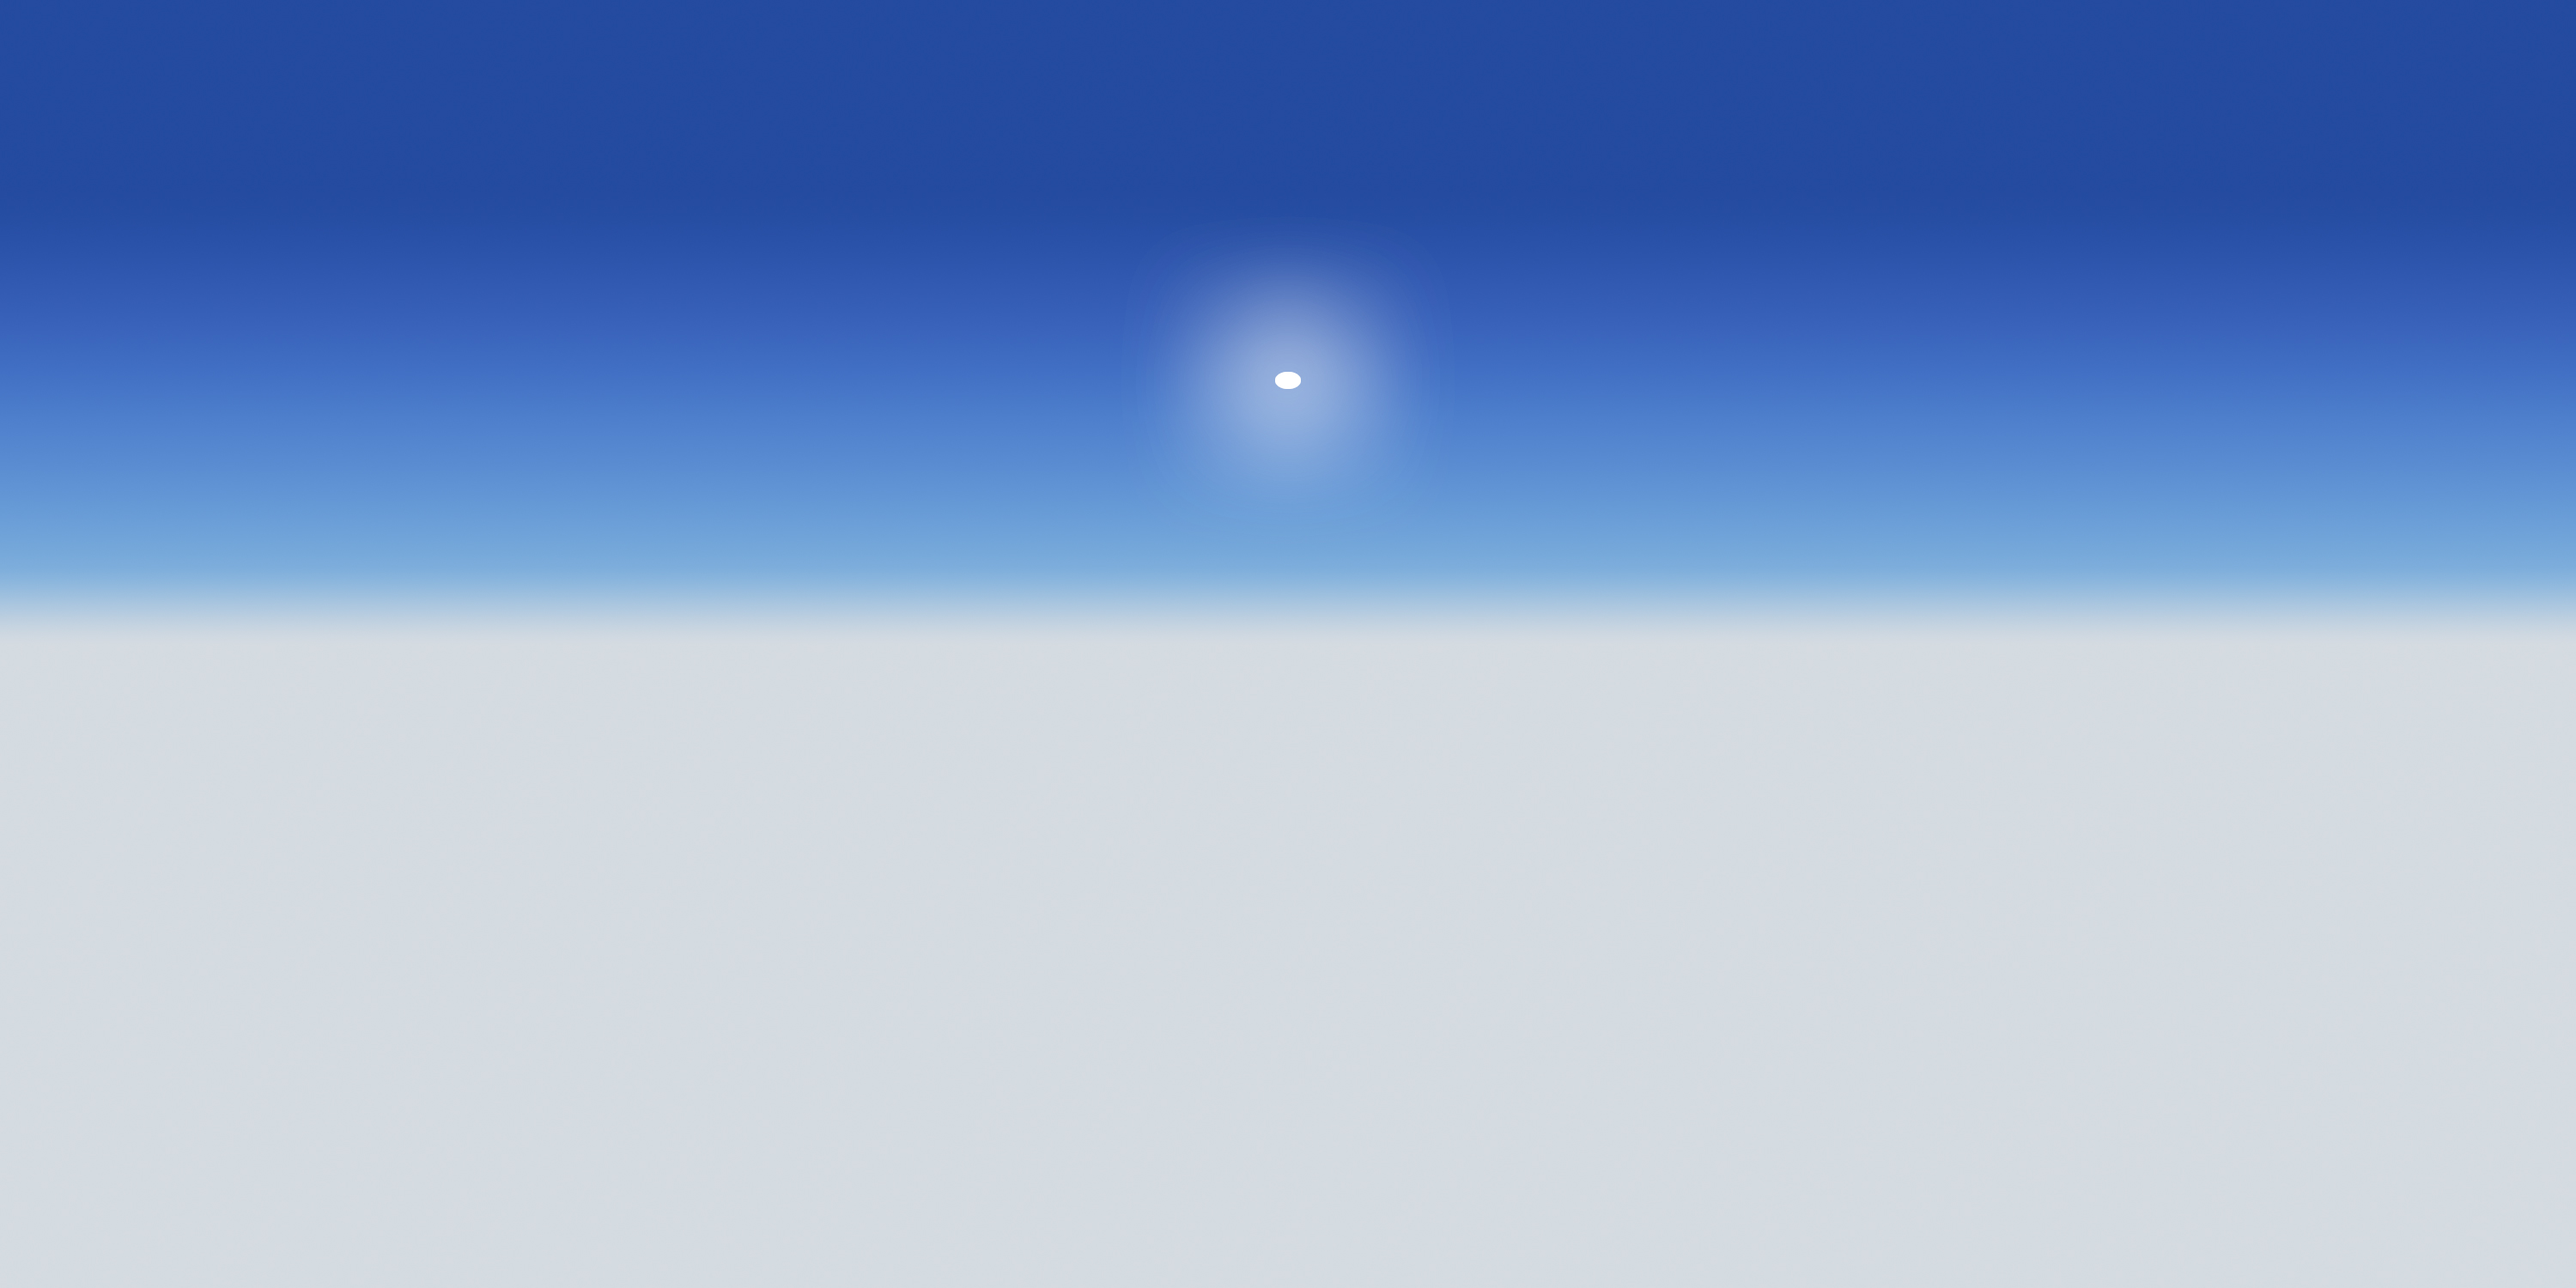
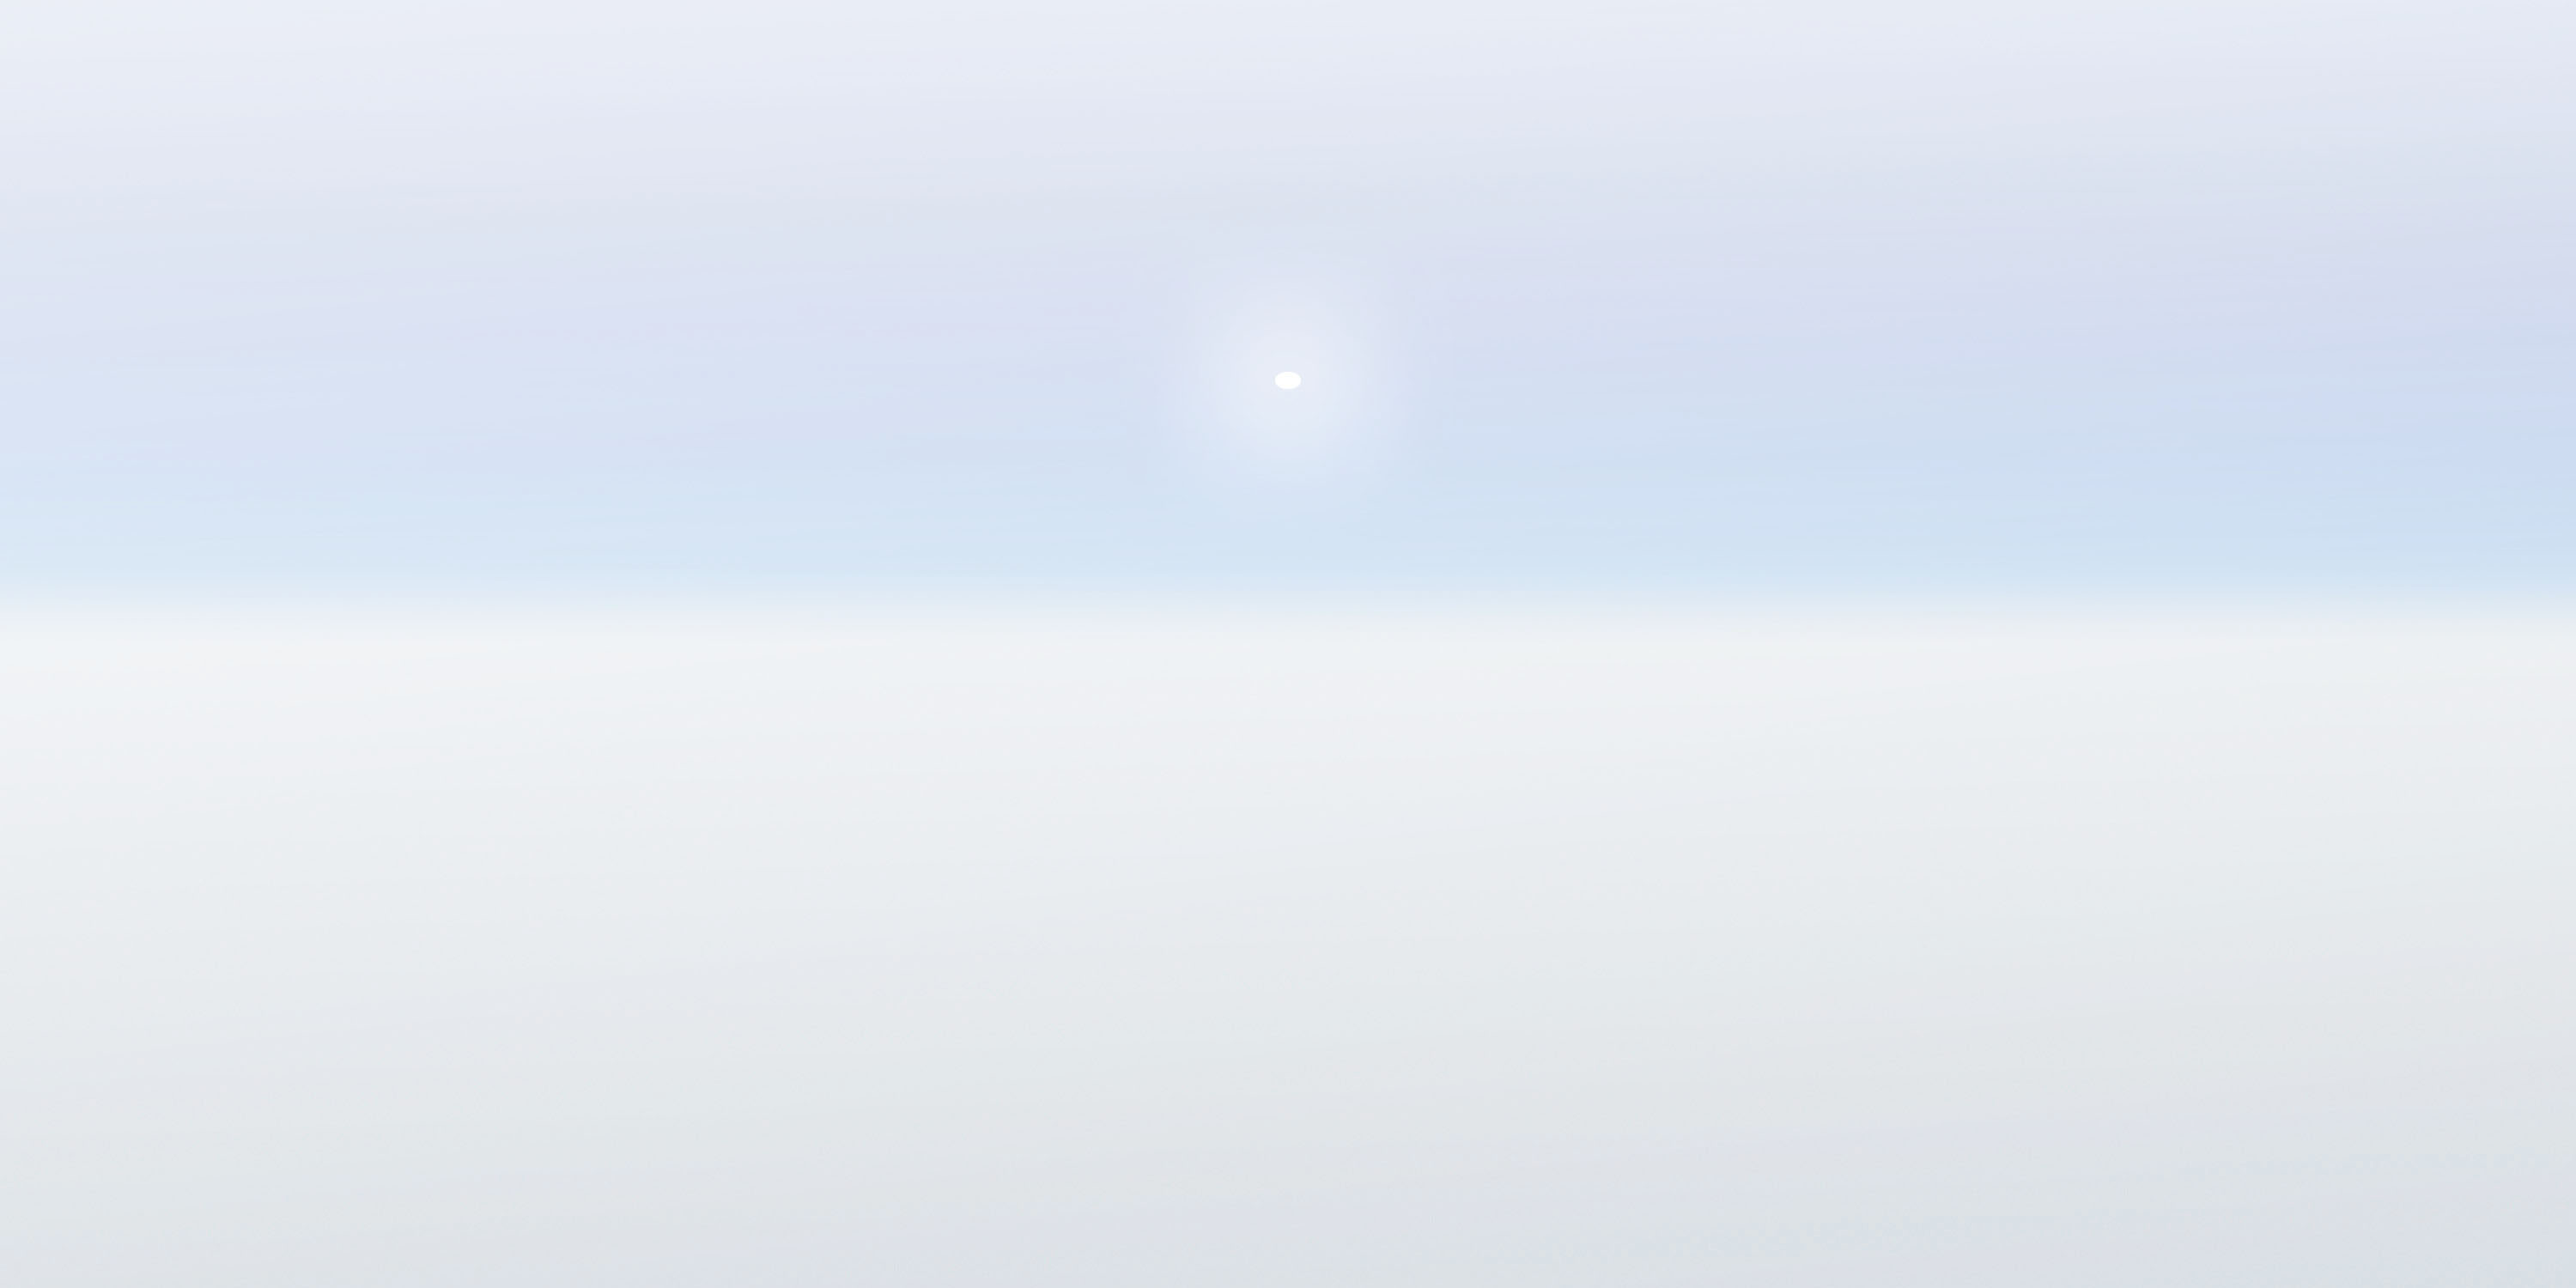
Last changes in cyzone AR app
Last changes in cyzone AR app

diff --git a/aframe/examples/dinero/index.html b/aframe/examples/dinero/index.html
@@ -33,9 +33,39 @@
 		
 	</style>
 	<script>
-	
-		// or simply
 		alert = function() {};
+		
+		function detectAndroidBrowserStock(){
+			var navU = navigator.userAgent;
+
+			// Android Mobile
+			var isAndroidMobile = navU.indexOf('Android') > -1 && navU.indexOf('Mozilla/5.0') > -1 && navU.indexOf('AppleWebKit') > -1;
+
+			// Apple webkit
+			var regExAppleWebKit = new RegExp(/AppleWebKit\/([\d.]+)/);
+			var resultAppleWebKitRegEx = regExAppleWebKit.exec(navU);
+			var appleWebKitVersion = (resultAppleWebKitRegEx === null ? null : parseFloat(regExAppleWebKit.exec(navU)[1]));
+
+			// Chrome
+			var regExChrome = new RegExp(/Chrome\/([\d.]+)/);
+			var resultChromeRegEx = regExChrome.exec(navU);
+			var chromeVersion = (resultChromeRegEx === null ? null : parseFloat(regExChrome.exec(navU)[1]));
+
+			// Native Android Browser
+			var isAndroidBrowser = isAndroidMobile && (appleWebKitVersion !== null && appleWebKitVersion < 537) || (chromeVersion !== null && chromeVersion < 37);
+			
+			return isAndroidBrowser;
+		}
+		
+		function getAndroidVersion(ua) {
+			ua = (ua || navigator.userAgent).toLowerCase(); 
+			var match = ua.match(/android\s([0-9\.]*)/);
+			return match ? match[1] : false;
+		};
+
+		if ((getAndroidVersion() != false) && (detectAndroidBrowserStock() == true) && (parseFloat(getAndroidVersion()) < 4.4)) {
+			window.location = "http://cyzoneapp.internovam.com/gif4";
+		}
 		
 		var check = {
 		  gyroscope: function (callback) {

diff --git a/aframe/examples/dinero/index-vr.html b/aframe/examples/dinero/index-vr.html
@@ -22,7 +22,7 @@
 			width: 100vw;
 			height: 100vh;
 			background-color: rgba(192, 192, 192, 0.5);
-			background-image: url("https://i.stack.imgur.com/MnyxU.gif");
+			background-image: url("./models/little-fox/loading.gif");
 			background-repeat: no-repeat;
 			background-position: center;
 		}
@@ -84,7 +84,7 @@ onReady(function () {
 
     <asset>
 	
-		<img id="sky" src="models/little-fox/clear-sunny-sky2.jpg">
+		<img id="sky" src="models/clear-sunny-sky.jpg">
 		
 		<a-asset-item id='tree-obj' src='models/little-fox/billete50/billete_12.obj'></a-asset-item>
         <a-asset-item id='tree-mtl' src='models/little-fox/billete50/billete_12.mtl'></a-asset-item>
